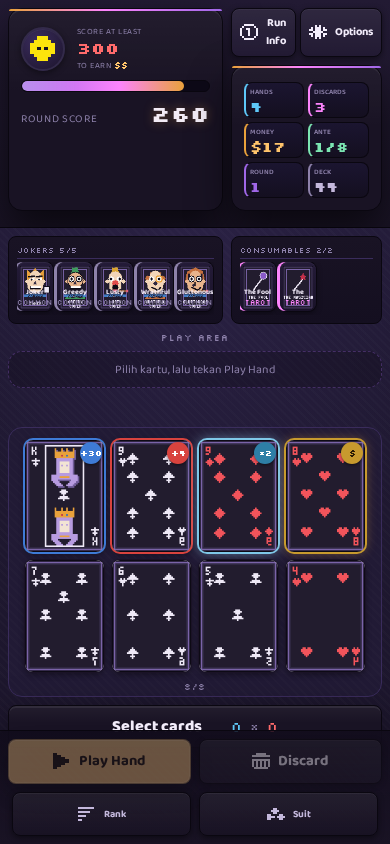
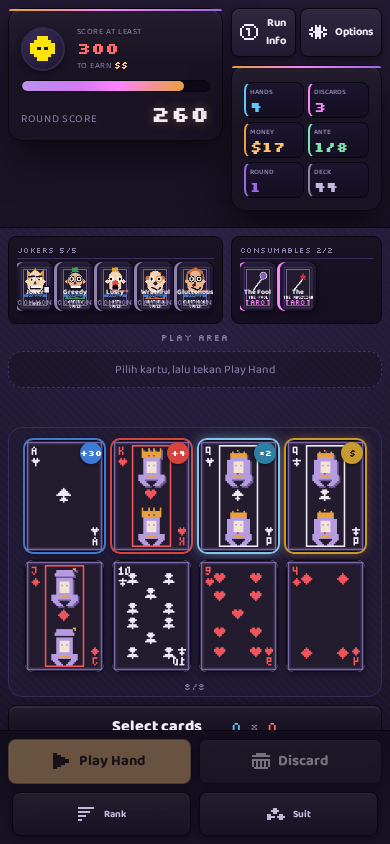
Lepas regangan panel blind: hilangkan 83px ruang kosong di HUD ponsel

diff --git a/index.html b/index.html
@@ -5,11 +5,11 @@
 <meta name="viewport" content="width=device-width, initial-scale=1.0">
 <title>Deckstorm — Poker Roguelike</title>
 <meta name="description" content="Deckstorm: a poker roguelike deckbuilder. Beat the blinds, build your jokers, survive 8 antes.">
-<link rel="icon" type="image/svg+xml" href="assets/favicon.svg?v=20261023-37">
+<link rel="icon" type="image/svg+xml" href="assets/favicon.svg?v=20261023-38">
 <link rel="preconnect" href="https://fonts.googleapis.com">
 <link rel="preconnect" href="https://fonts.gstatic.com" crossorigin>
 <link href="https://fonts.googleapis.com/css2?family=Baloo+2:wght@400;500;600;700;800&family=Nunito:wght@400;600;700;800&family=Press+Start+2P&family=Silkscreen:wght@400;700&display=swap" rel="stylesheet">
-<link rel="stylesheet" href="css/deckstorm.css?v=20261023-37">
+<link rel="stylesheet" href="css/deckstorm.css?v=20261023-38">
 </head>
 <body>
 <div id="fx-layer" aria-hidden="true"></div>
@@ -332,19 +332,19 @@
   </div>
 </div>
 
-<script src="js/debug.js?v=20261023-37"></script>
-<script src="js/cards.js?v=20261023-37"></script>
-<script src="js/jokers.js?v=20261023-37"></script>
+<script src="js/debug.js?v=20261023-38"></script>
+<script src="js/cards.js?v=20261023-38"></script>
+<script src="js/jokers.js?v=20261023-38"></script>
 <script src="js/data/jokers-pool.js?v=20261014-1"></script>
-<script src="js/consumables.js?v=20261023-37"></script>
-<script src="js/pixelart.js?v=20261023-37"></script>
-<script src="js/audio.js?v=20261023-37"></script>
+<script src="js/consumables.js?v=20261023-38"></script>
+<script src="js/pixelart.js?v=20261023-38"></script>
+<script src="js/audio.js?v=20261023-38"></script>
 <script src="js/data/jokers.js?v=20261014-1"></script>
 <script src="js/data/joker-effects.js?v=20261014-1"></script>
 <script src="js/efek.js?v=20261014-1"></script>
-<script src="js/data/decks.js?v=20261023-37"></script>
-<script src="js/data/challenges.js?v=20261023-37"></script>
-<script src="js/data/stakes.js?v=20261023-37"></script>
-<script src="js/game.js?v=20261023-37"></script>
+<script src="js/data/decks.js?v=20261023-38"></script>
+<script src="js/data/challenges.js?v=20261023-38"></script>
+<script src="js/data/stakes.js?v=20261023-38"></script>
+<script src="js/game.js?v=20261023-38"></script>
 </body>
 </html>

diff --git a/css/deckstorm.css b/css/deckstorm.css
@@ -1528,7 +1528,11 @@ a:hover { color: var(--emas); border-bottom-color: var(--emas); }
     padding: var(--s2);
     overflow-x: visible;
   }
-  .sidebar .blind-panel { grid-area: blind; align-self: stretch; }
+  /* align-self: start, BUKAN stretch. Saat diregangkan, panel blind mengisi
+     kedua baris kisi dan menyisakan 83px ruang kosong di bawah baris skor -
+     itulah yang membuat HUD terlihat tidak rapih dan memakan tinggi layar.
+     Dengan start, tingginya mengikuti isinya saja. */
+  .sidebar .blind-panel { grid-area: blind; align-self: start; }
   .sidebar .hud-buttons {
     grid-area: tombol; align-self: start; justify-self: end;
     display: flex; flex-direction: row; gap: var(--s1);
